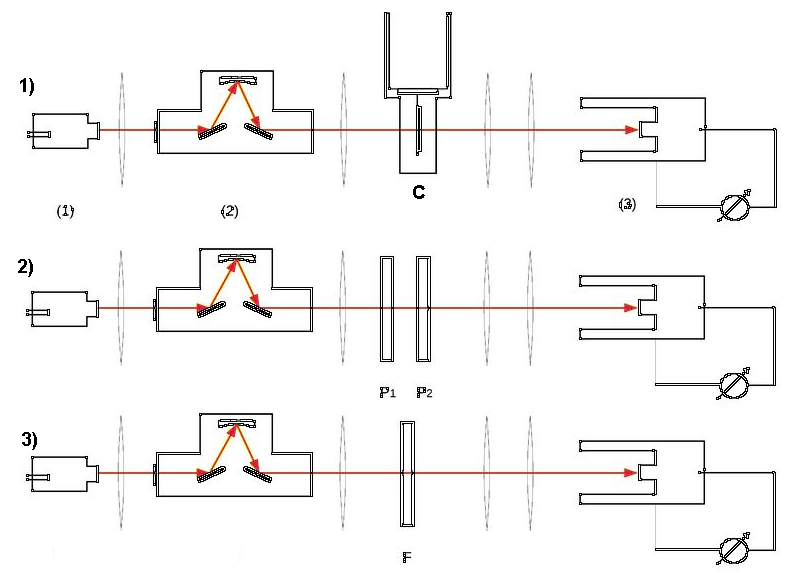
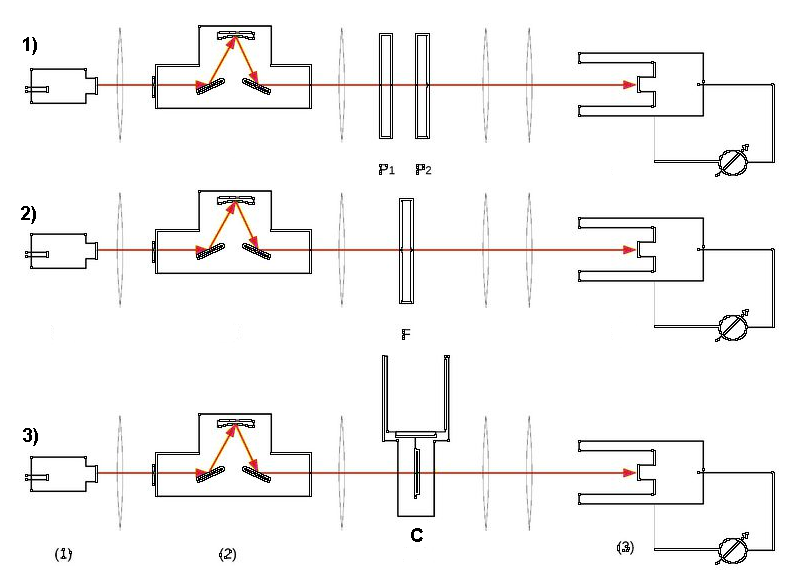
texti text text  :D

diff --git a/Energy Gap/EnergyGap.tex b/Energy Gap/EnergyGap.tex
@@ -14,13 +14,13 @@
 
 \maketitle
 \begin{abstract}
-In this experiment we want to measure the energy gaps for the semiconductors silicon Si and gallium arsenide GaAs. Thereby we want to see the difference between direct and indirect band transfer
+In this experiment we want to measure the energy gaps for the semiconductors silicon Si and gallium arsenide GaAs. Thereby we want to see the difference between direct and indirect band transfer. To get appropriate values, calibration of photo diode and wavelength values have to be done in advance. In between the lamp spectrum has to be monitored to react to changes in our data caused by the temperature. In the end we want to calculate values for the energy gaps and want to see how the absorption of photons differentiates between the type of transfer.
 
 \end{abstract}
 
 \tableofcontents
 
-
+\newpage
 \section{Theory}
 \subsection{Crystallography}
 There are a few different types of crystals, depending on their inner structure, they're classified into the following groups. 
@@ -45,7 +45,8 @@ The polycrystalline structure is nearly a mono-crystal, but there are some spots
 The last class are the amorphous solid bodies. In this state there is no structure in how the atoms are arranged. Most of the man-made solid bodies are considered amorphous. For example glass, polymers and thin films created by sputtering. 
 
 \subsection{Band structure}
-The band structure is derived from the Fermi-Dirac distribution. For fermions, spin=1/2 particles, there is a finite amount of how many are allowed to be in the same energy level. This results from Pauli's exclusion principle, where it's not possible to have 2 fermions with the exact same wave function. At a temperature $T=0K$ the electrons energy has to be the lowest possible. 
+The band structure is derived from the Fermi-Dirac distribution. For fermions, spin=1/2 particles, there is a finite amount of how many are allowed to be in the same energy level. This results from Pauli's exclusion principle, where it's not possible to have 2 fermions with the exact same wave function. At a temperature $T=0K$ the electrons energy has to be the lowest possible. And thereby all states underneath the Fermi energy $E_F$ are occupied.
+
 \begin{figure}[H]
 \centering
 \begin{subfigure}[b]{1\textwidth}
@@ -55,7 +56,8 @@ The band structure is derived from the Fermi-Dirac distribution. For fermions, s
 	\end{equation}
 \end{subfigure}
 \begin{subfigure}[b]{1\textwidth}
-	\includegraphics[width=1\textwidth]{Plots/fd.png}
+	\centering
+	\includegraphics[width=.7\textwidth]{Plots/fd.png}
 \end{subfigure}
 \caption{Fermi-Dirac statistics equation on top and plots for different temperatures underneath, while $T_1=0K$. \cite{wiki}}
 \end{figure}
@@ -65,21 +67,48 @@ Considering many Coulomb potentials in a one-dimensional lattice, their energy l
 There are now three classes of solids, regarding their energy distance between valence and conduction band. This is called the energy gap. As one expects, in a metal there is no gap, electrons are free to be used a current and can change their nucleus like they want. Insulators are the extreme opposite. Their energy gap is so high, around $5eV$, that high voltage is necessary to excite them into the conduction band. This is would usually break the insulator, due to lost power as heat. 
 For semi-conductors the energy gap is just less than $1eV$. This means it is possible to excite them by applying a voltage and thereby creating conductivity.
 
-%%% doping, pn
+\begin{figure}[H]
+\centering
+\includegraphics[width=.7\textwidth]{Plots/bandstructure.png}
+\caption{Schematic illustration of different types of metal. White: conduction band. Black: valence band. Difference between the bands is equal to the energy gap. The Fermi energy is exactly between the possible occupation levels. \cite{wiki}}
+\label{fig:bandstructure}
+\end{figure}
 
-%%% band transfer 
+Besides a dependency on temperature, the energy gap can change with the process of doping. This considers adding different atoms into a semi-conducting material. Most of the time atoms with three or five valence electrons are used. This results in p- and n-doped versions. In the band structure of a n-doped semi-conductor an additional energy level is created underneath the conduction band, due to an additional valence electron which has no partner to form a covalent bond. This electron is only bond to its nucleus and therefore easily excitable with less energy.
+In a p-doped version an additional energy level above the valence band is created. The missing electron for a covalent bond can be replaced by one of the lattice forming ones. Form the foreign atom the electron can be easier excited, due to less binding energy. This means a electron can take two steps, with each lesser energy than the energy gap, to get excited into the conduction band.
 
-\subsection{Lambert-Beer Law}
+%%% pn junction ?? Wird im Versuch nicht benötigt... überfüllt nur, odwer?
+
+\subsection{Band transfer}
+For temperatures $T\neq 0$ atoms are oscillating due to their thermal energy. It is possible to quantize this energy analogue to a photons energy. Those lattice oscillations are called phonons. Just like the photons they are described by momentum $\hbar K$ and energy $\hbar \Omega_K$. This energy has to be considered while calculating the energy gap, due to different types of band transfer.
+
+\begin{figure}[H]
+\centering
+\includegraphics[width=.8\textwidth]{Plots/transfer.png}
+\caption{Illustration of direct and indirect band transfer. \cite{wiki}}
+\label{fig:band transfer}
+\end{figure}
+
+The obvious direct band transfer is not depending on any phonon influence. Maximum of valence and minimum of conduction band are at the same wave vector. This means the excitation happens without a change of momentum and therefore only the energy gap has to be overcome. 
+
+In materials with an indirect band gap, like silicon, the valence maxima and conduction minima are not at the same momentum of the atoms electron. In this case the energy gap is still added by the photons energy, but a change in the lattice momentum is necessary. This happens by emitting or absorbing a phonon, because photons can't change the oscillation of the crystal in such a scale. This means the probability of excitation into the conduction band is less than in the direct transfer. Reason behind this is the necessary temperature, without no phonons could exist. Another angle of view on the function of phonon is to compare them with a catalyser, who excites the electron and afterwards keeps on oscillating. 
+
+%%%%% letzter Satz: passt das als verglecih?
+
+Light Emitting Diodes are usually produced from materials with direct band gap. On this way the intensity of light emitted is higher and more consistent.
+%%% indirect
+
+\subsection{Lambert-Beer law}
 The Lambert-Beer law describes the relation between absorbed light passing through a solid material, depending on its thickness $dx$ and the materials absorption coefficient $\alpha$. This coefficient also describes the   product of photon absorbing centres per volume $N$ and their effective cross section $\sigma$ to absorb. 
 
 \begin{equation}
 -dI(x) = \alpha \cdot I(x)\cdot dx\ \rightarrow\ \alpha=\frac{ln(I_0 / I(x))}{x} = N\cdot \sigma
 \end{equation}
 
+
 \section{Experiment}
 \subsection{Set-up}
-
-Via a monochromator only light of a certain wavelength can be filtered. This wavelength will later determine the energy of the light. If the lights energy is sufficient the semiconductor will be able to absorb it. In this case there will be no intensity noticeable at our photo diode. 
+Via a monochromator only light of a certain wavelength can be filtered. This wavelength will later determine the energy of the light. If the lights energy is sufficient the semiconductor will be able to absorb it and in this case there will be no intensity noticeable at our photo diode. 
 
 \begin{figure}[H]
 \centering
@@ -87,6 +116,16 @@ Via a monochromator only light of a certain wavelength can be filtered. This wav
 \caption{Set-up for this experiment. (1) Lamp, (2) Monochromator, (3) Photo diode, C Cryostat, P1/P2 Polarisation filter, F Coloured filter. }
 \label{fig:setup}
 \end{figure}
+
+There are four different set-ups used in this experiment. All of them are consisting of a lamp (1), a monochromator (2) and a photo diode (3) arranged as always shown in figure \ref{fig:setup}. In between the part, lenses are placed to keep a focused light path.
+
+In the first task the polarisation filters P1/P2 were placed as shown. Thereby we want to show that with linear increasing the light intensity, the photo-current increases linear, too. This ensures that the photo diode registers all of the incoming light.
+
+Task 2) consists of measuring the intensity while coloured filters F are in the lights path. With this we will compare the values given on the monochromator to the Gaussian peaks in the intensity. This leads to a correction function and more precise wavelengths to calculate the energy gaps.
+
+The third set-up includes the cryostat C with included samples of Si and GaAs. Taking a full lamp spectrum from $400nm \ - \ 1200nm$ we can then see where the photo diode starts measuring light again. This energy will be equivalent to the gap. Once without and once with liquid nitrogen filled in the tank on top to cool the samples to $T=77K$.
+
+Before the normal, in between normal and cold measurement and at the end additional lamp spectra are taken. This happens without any of the third components in figure \ref{fig:setup}. Thereby we want to observe if the conditions of the different energy gap measurements are constant and where to expect to see the photo-current. 
 
 \subsection{Photo diode}
 \subsection{Coloured filters} \label{color filters}
@@ -172,7 +211,8 @@ In section \ref{color filters} it was strange that the $1060nm$ filter show a di
 
 \bibitem{wiki} \begin{verbatim}
 http://wiki-fp.physik.uni-mainz.de/index.php/44_energy_gap_in_GaAs_and_Si
-\end{verbatim} (Begleitendes Skript zum Versuch 44)
+\end{verbatim} 
+(Begleitendes Skript zum Versuch 44)
 
 \end{thebibliography}
 \end{document}
